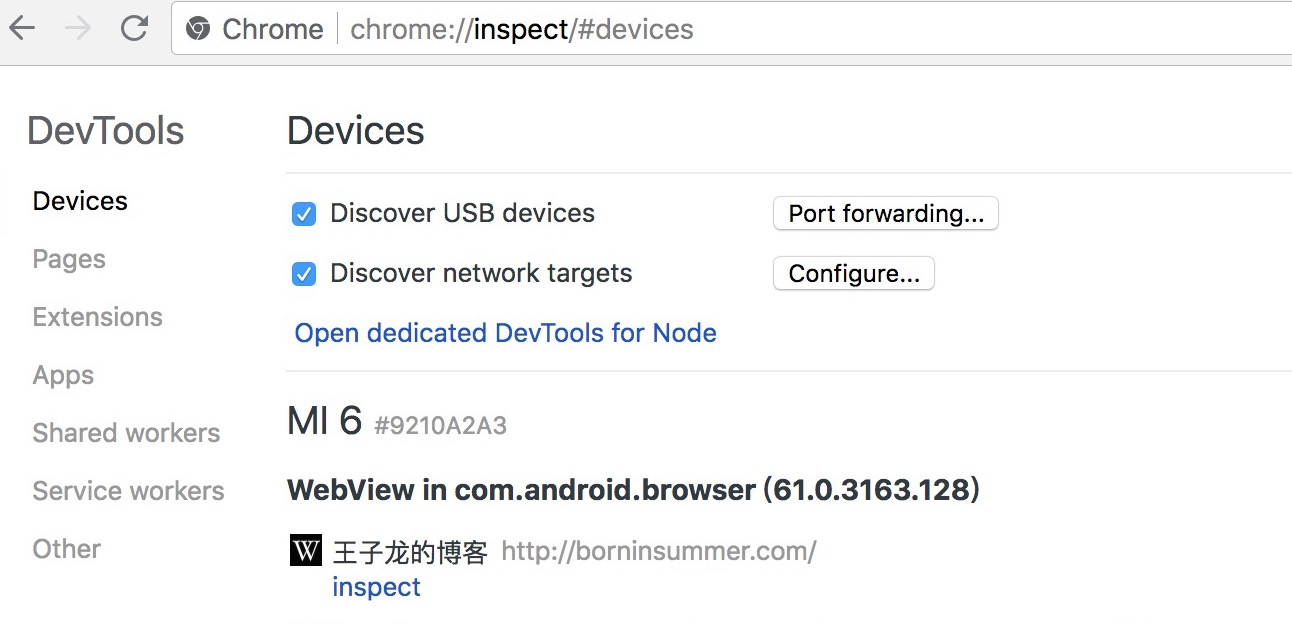
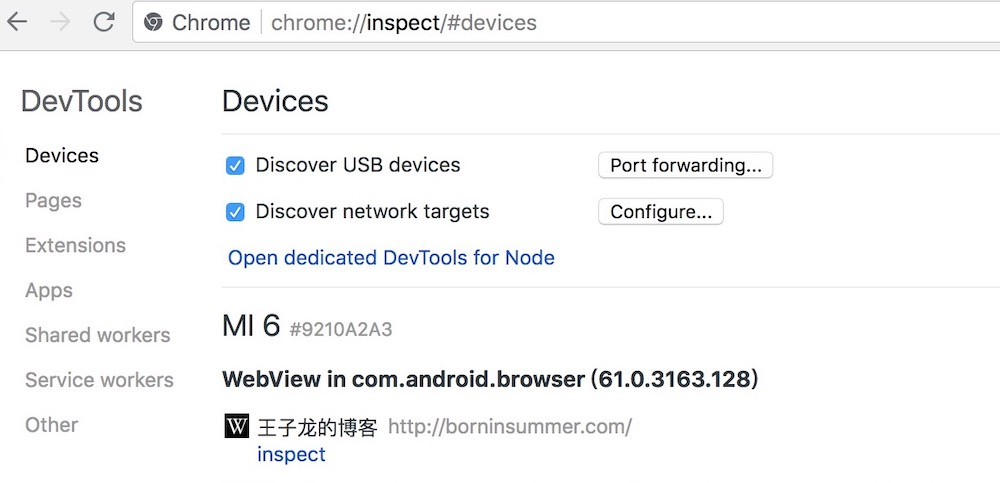
fix: compress images

diff --git a/src/part-2/chapter-4-debug/4-mobile-web-debug.md b/src/part-2/chapter-4-debug/4-mobile-web-debug.md
@@ -78,7 +78,7 @@ Chrome 浏览器的 Devtools 还可以调试安卓手机的系统浏览器页面
 <img src="./images/webview-debug-01.jpg" style="width: 60%;">
 
 <figure>
-<img src="./images/webview-debug-02.png" style="width: 85%;">
+<img src="./images/webview-debug-02.jpg" style="width: 85%;">
 <figcaption>通过 USB 调试安卓手机浏览器打开的页面（小米手机6，MIUI9.6）</figcaption>
 </figure>
 
